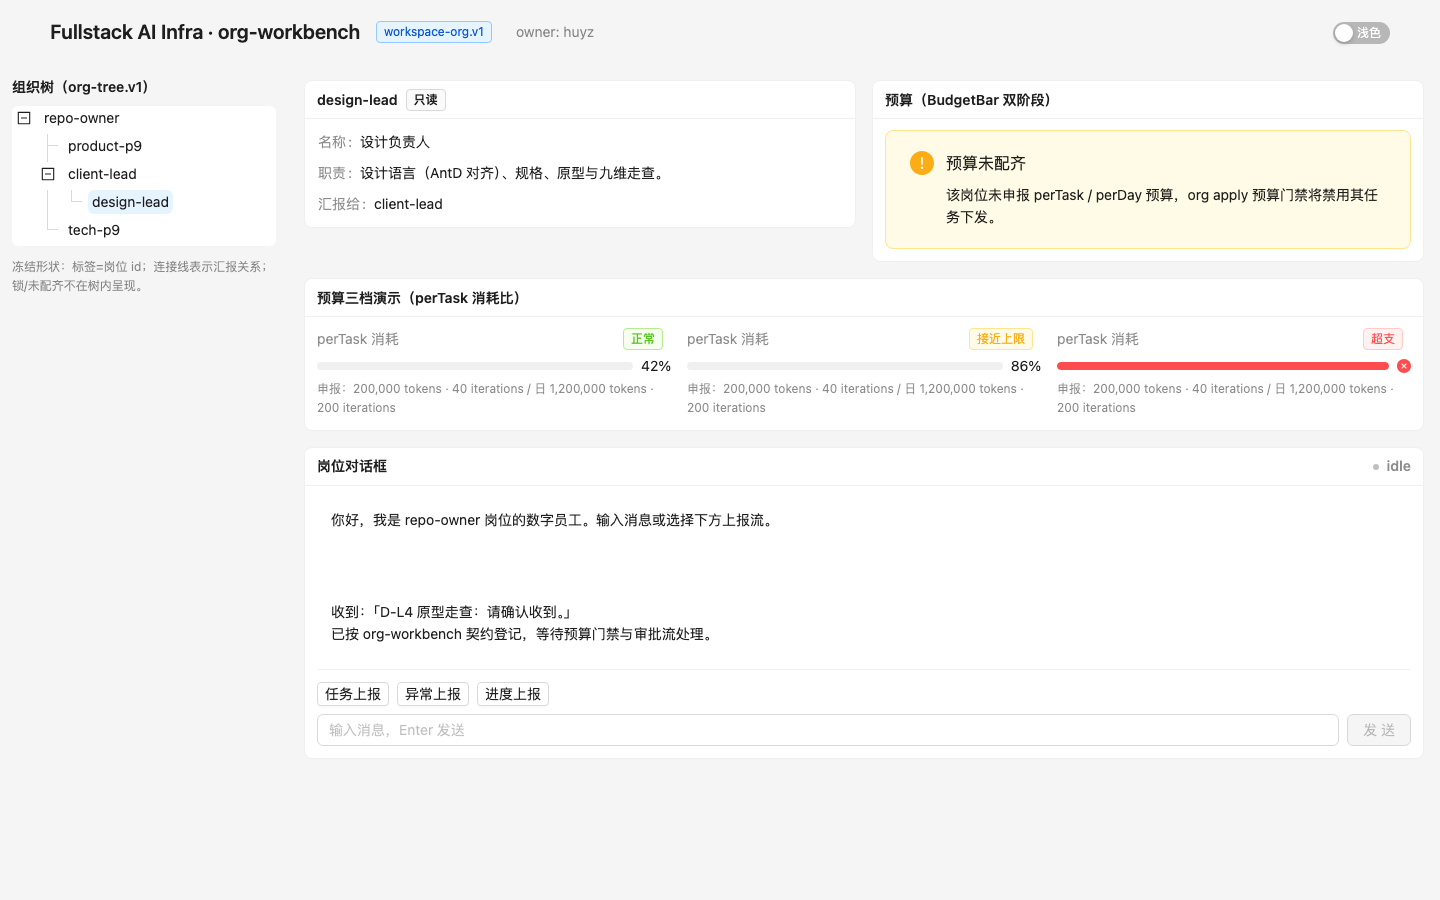
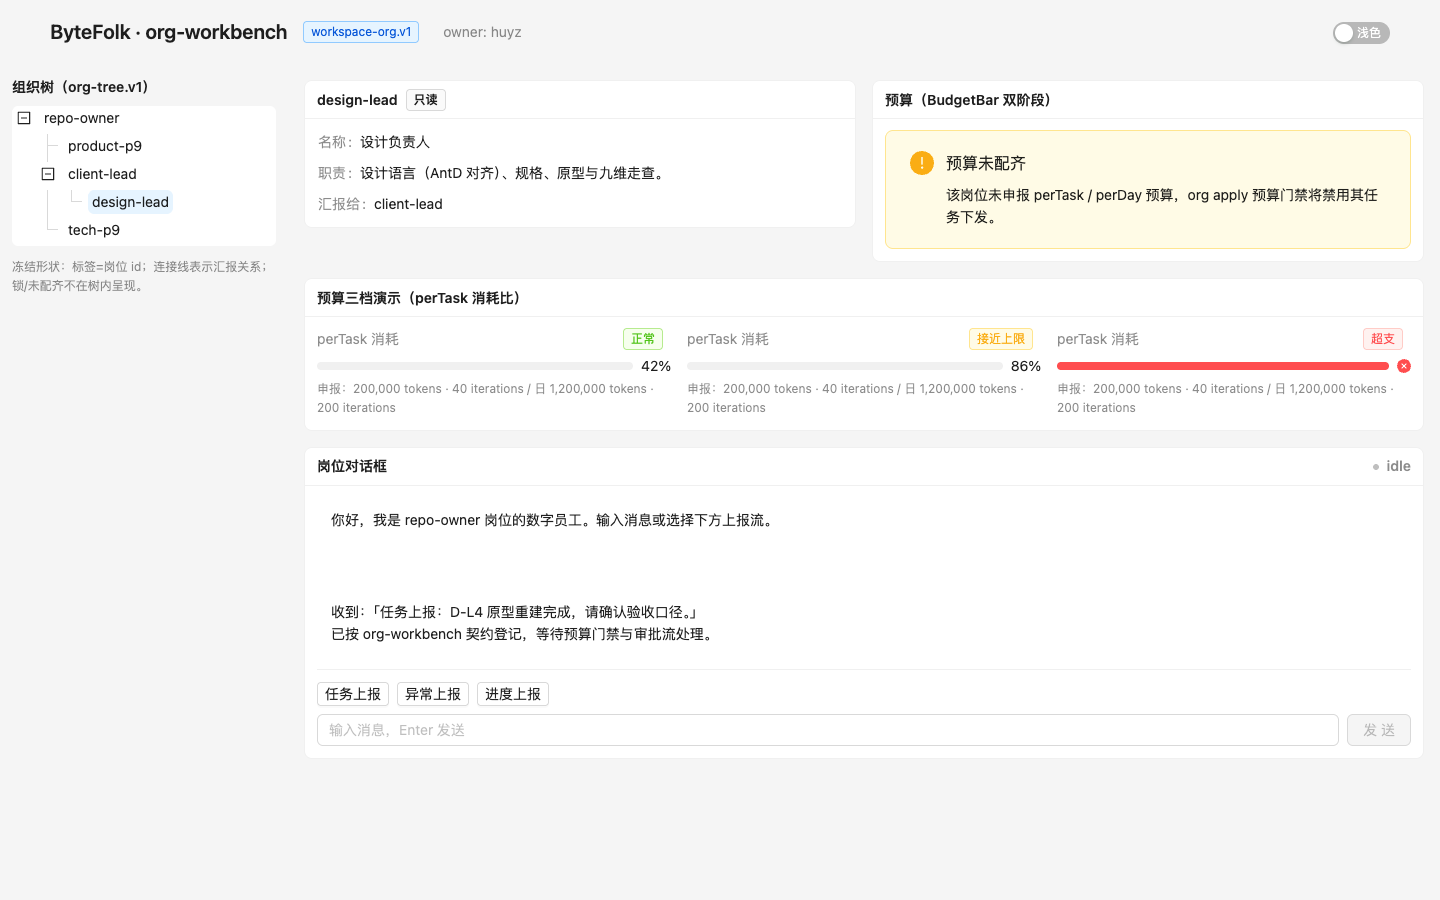
docs: align public Design System brand with ByteFolk

Changed region(s): [[0.0312, 0.0311, 0.4062, 0.0622], [0.25, 0.6533, 0.4688, 0.6844]]

diff --git a/tests/visual/showcase.spec.ts b/tests/visual/showcase.spec.ts
@@ -9,7 +9,9 @@ const screenshotOptions = {
 test('renders the three products in one light and dark application shell', async ({ page }) => {
   await page.goto('/');
 
-  await expect(page).toHaveTitle(/fullstack-ai-infra\/ui/);
+  await expect(page).toHaveTitle('ByteFolk Design System');
+  await expect(page.getByLabel('ByteFolk', { exact: true })).toBeVisible();
+  await expect(page.getByLabel('ByteFolk Design System showcase', { exact: true })).toBeVisible();
   await expect(page.getByRole('heading', { name: 'Digital Employees' })).toBeVisible();
   await expect(page.getByRole('heading', { name: 'Memory' })).toBeVisible();
   await expect(page.getByRole('heading', { name: 'Docs' })).toBeVisible();

diff --git a/src/showcase/showcase-app.tsx b/src/showcase/showcase-app.tsx
@@ -100,8 +100,8 @@ const moduleDetails = {
 
 function BrandMark() {
   return (
-    <div className="showcase-brand" aria-label="Fullstack AI Infrastructure">
-      <span>F</span>
+    <div className="showcase-brand" aria-label="ByteFolk">
+      <span>B</span>
     </div>
   );
 }
@@ -355,7 +355,7 @@ export function ShowcaseApp() {
           Skip to content
         </a>
         <AppShell
-          aria-label="fullstack-ai-infra/ui showcase"
+          aria-label="ByteFolk Design System showcase"
           moduleRail={
             <ModuleRail
               items={moduleItems}

diff --git a/docs/prototypes/org-workbench-dl4-antd-prototype.html b/docs/prototypes/org-workbench-dl4-antd-prototype.html
@@ -98,7 +98,7 @@
       /* ---------- 数据：workspace-org.v1 契约镜像（business + Brand 企业根；roles.reportTo 建树） ---------- */
       const ORG = {
         schemaVersion: 'workspace-org.v1',
-        business: 'Fullstack AI Infra',
+        business: 'ByteFolk',
         description: '全栈 AI 基础设施虚拟团队工作区',
         owner: 'huyz',
         updatedAt: '2026-08-25T09:00:00Z',

diff --git a/index.html b/index.html
@@ -4,7 +4,7 @@
     <meta charset="UTF-8" />
     <meta name="viewport" content="width=device-width, initial-scale=1.0" />
     <meta name="theme-color" content="#f5f5f5" />
-    <title>fullstack-ai-infra/ui — Design System</title>
+    <title>ByteFolk Design System</title>
   </head>
   <body>
     <div id="root"></div>

diff --git a/README.md b/README.md
@@ -1,6 +1,6 @@
 # @fullstack-ai-infra/ui
 
-The shared visual and interaction system for fullstack-ai-infra. It gives Docs, Memory, and future
+The shared visual and interaction system for ByteFolk. It gives Docs, Memory, and future
 Digital Employee Web applications one warm, trustworthy workspace without moving business logic into
 the component package.
 

diff --git a/CHANGELOG.md b/CHANGELOG.md
@@ -4,6 +4,8 @@ All notable changes to this project will be documented in this file.
 
 ## [Unreleased]
 
+- Update public Design System branding and showcase accessibility labels to ByteFolk.
+
 ## [0.2.0] - 2026-08-25
 
 - Replace the warm-ivory Direction C palette with Ant Design aligned tokens v3 (antd@6
